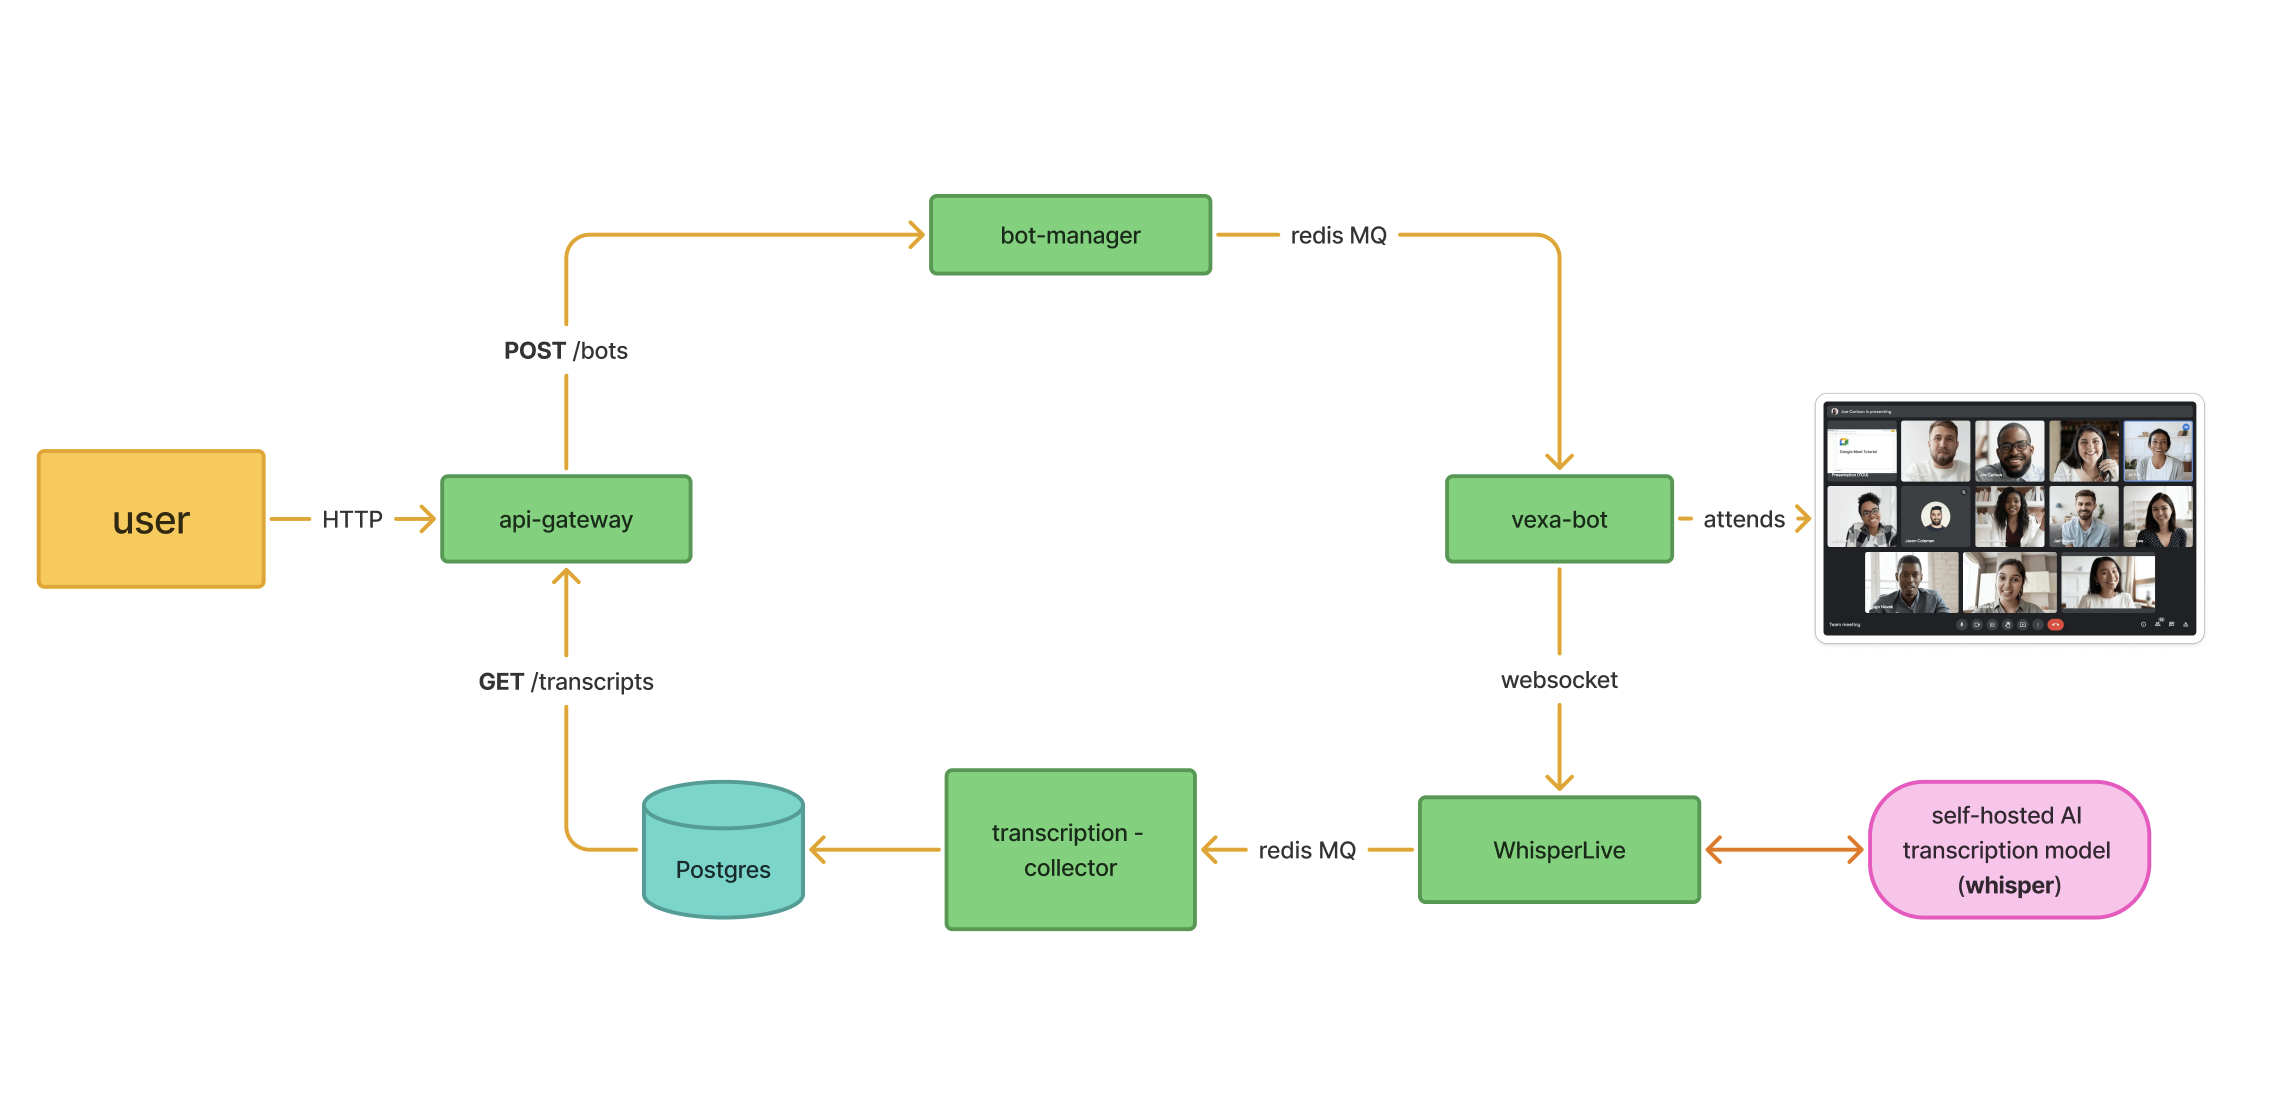
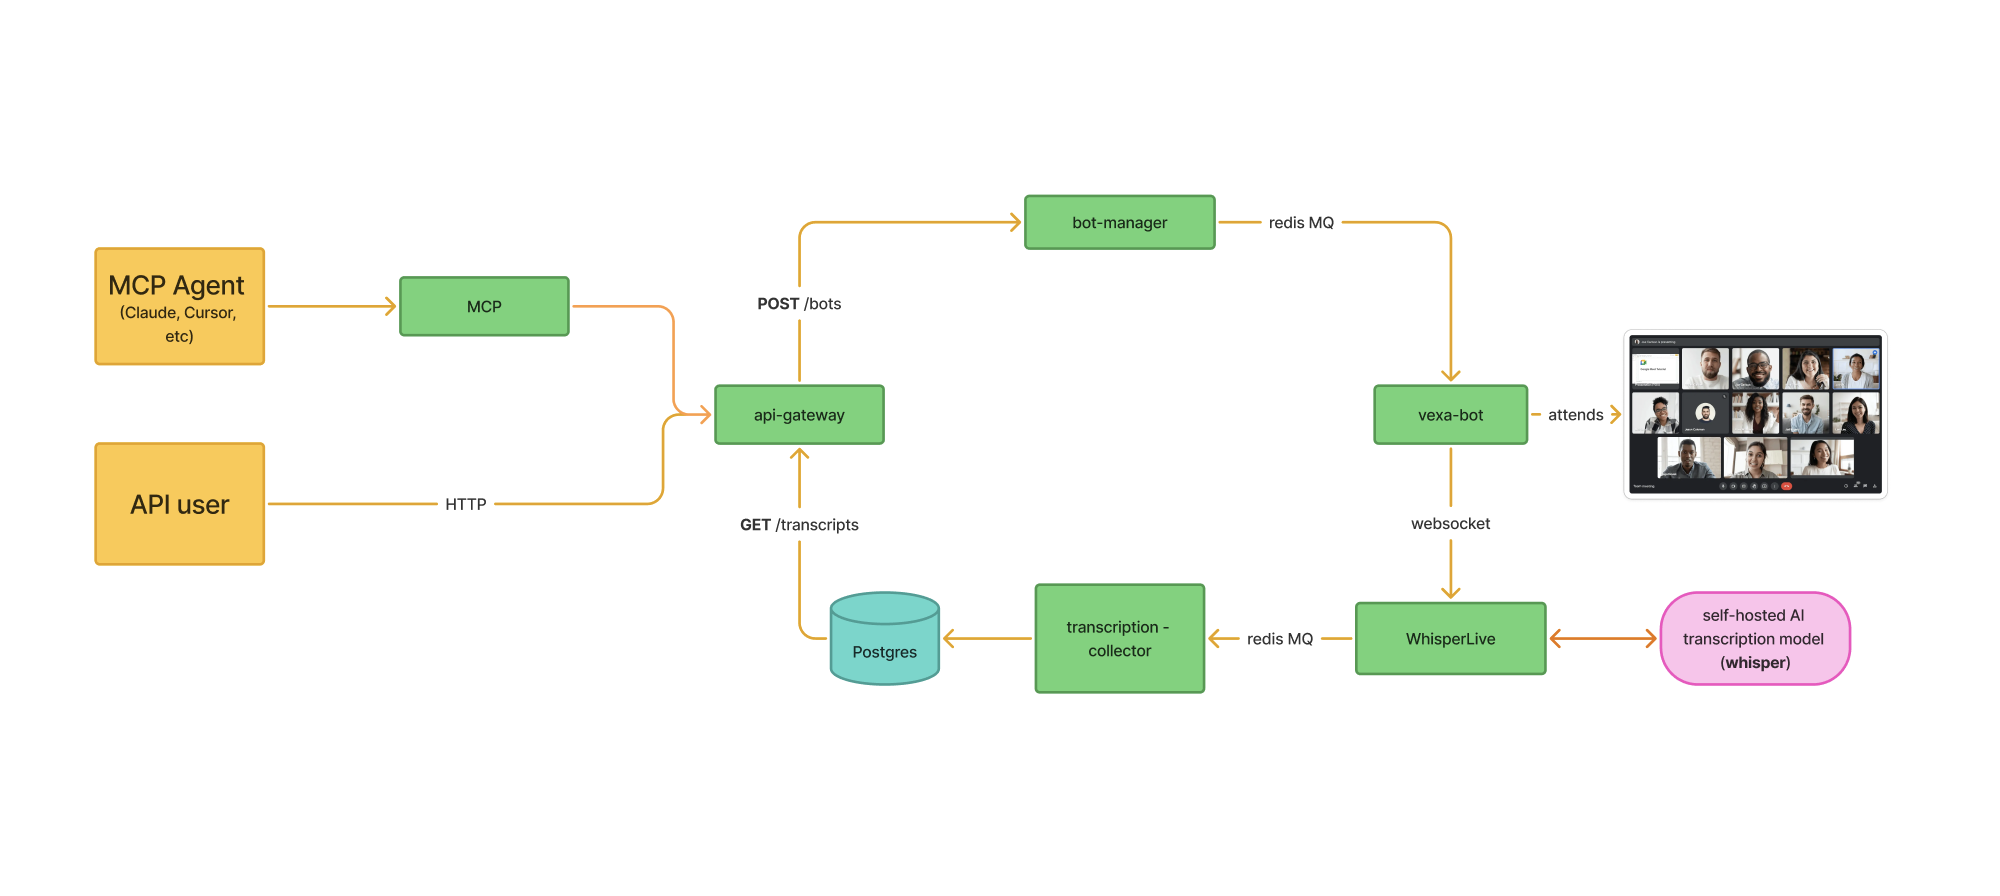
readme update

diff --git a/README.md b/README.md
@@ -6,16 +6,10 @@
 
 # Vexa: API for **Real-Time Meeting Transcription**
 
-
 <p align="center">
   <b>🚀 Help us reach 1500 stars! 🚀</b><br>
   <b>Current: <img src="https://img.shields.io/github/stars/Vexa-ai/vexa?style=social" /> → Goal: 1500 ⭐️</b><br>
   <a href="https://github.com/Vexa-ai/vexa/stargazers">
-
-  </a>
-</p>
-
-
 
 💬 [Join Discord Community!](https://discord.gg/Ga9duGkVz9)
 
@@ -29,23 +23,17 @@ It serves as an **privacy-first**, **open source** alternative to `recall.ai`.
 
 It focuses on doing one job well: **clean, private, real-time transcription under your control so you can safely build on top**.
 
-
-
-
 ## News (31 August 2025)
 
-- **MCP server for agents (new microservice):** Full Vexa API access from any MCP-capable agent (Claude Desktop, Cursor, etc.). See `services/mcp`.
+- **MCP server for agents (new microservice):** Full Vexa API access from any MCP-capable agent (Claude Desktop, Cursor, etc.). See `services/mcp`. Built with https://github.com/tadata-org/fastpi_mcp
 - **Hallucination filtering:** Greatly reduced hallucinations in selected languages. Contributions welcome — add phrases to `services/WhisperLive/hallucinations/` for your language.
 - **Google Meet UI updates:** Bot adjusted to the latest Google Meet UI changes for reliable joining and capture.
 
-
 ## Build on Top. In Hours, Not Months
-
-
 
 **Build powerful meeting assistants (like Otter.ai, Fireflies.ai, Fathom) for your startup, internal use, or custom integrations.**
 
-The Vexa API provides powerful abstractions and a clear separation of concerns, enabling you to build sophisticated applications on top with a safe and enjoyable coding experience. 
+The Vexa API provides powerful abstractions and a clear separation of concerns, enabling you to build sophisticated applications on top with a safe and enjoyable coding experience.
 
 For instance, the **Vexa Example Client** (see [Projects Built with Vexa](BUILT-WITH-VEXA.md)) was built in just 3 hours of live coding with Cursor, showcasing the rapid development possible with Vexa.
 
@@ -55,24 +43,21 @@ Furthermore, with our **n8n integration** (see [Projects Built with Vexa](BUILT-
   <img src="assets/simplified_flow.png" alt="Vexa Architecture Flow" width="100%"/>
 </p>
 
-
 - [api-gateway](./services/api-gateway): Routes API requests to appropriate services
+- [mcp](./services/mcp): Provides MCP-capable agents with Vexa as a toolkit
 - [bot-manager](./services/bot-manager): Handles bot lifecycle management
 - [vexa-bot](./services/vexa-bot): The bot that joins meetings and captures audio
 - [WhisperLive](./services/WhisperLive): Real-time audio transcription service
 - [transcription-collector](./services/transcription-collector): Processes and stores transcription segments
 - [Database models](./libs/shared-models/shared_models/models.py): Data structures for storing meeting information
 
-
-
 ## Public Hosted API
 
-> 🔑 Get your API key at [www.vexa.ai](https://www.vexa.ai/?utm_source=github&utm_medium=readme&utm_campaign=vexa_repo) to try Vexa instantly. 
+> 🔑 Get your API key at [www.vexa.ai](https://www.vexa.ai/?utm_source=github&utm_medium=readme&utm_campaign=vexa_repo) to try Vexa instantly.
 
 > 🚀 Read [DEPLOYMENT.md](DEPLOYMENT.md) for self-hosting and local run with single `make all` on CPU even on laptop or on your GPU server.
 
 The Vexa API is **publicly available** at [www.vexa.ai](https://www.vexa.ai/?utm_source=github&utm_medium=readme&utm_campaign=vexa_repo) with **self-service access** - get your API key in just 3 clicks and have everything running in under 5 minutes.
-
 
 ### Key features in this release:
 
@@ -81,16 +66,16 @@ The Vexa API is **publicly available** at [www.vexa.ai](https://www.vexa.ai/?utm
 - **Real-Time Transcription**: Access meeting transcripts as they happen through the API
 - **Real-Time Translation**: Change the language of transcription to get instant translations across 99 languages
 
-
 ## API Capabilities
 
-
 ## Simple API Integration
+
 **Set up and running in under 5 minutes**
 
 Get your API key in 3 clicks at [www.vexa.ai](https://www.vexa.ai/?utm_source=github&utm_medium=readme&utm_campaign=vexa_repo) and start using the API immediately.
 
 ### Create a meeting bot
+
 ```bash
 # POST /bots
 curl -X POST https://gateway.dev.vexa.ai/bots \
@@ -103,6 +88,7 @@ curl -X POST https://gateway.dev.vexa.ai/bots \
 ```
 
 ### Retrieve meeting transcript
+
 ```bash
 # GET /transcripts/{platform}/{native_meeting_id}
 # Example assumes native_meeting_id is derived from the meeting URL
@@ -142,10 +128,10 @@ To see examples of projects built using the Vexa API, including our example clie
 > 💫 If you're building with Vexa, we'd love your support! [Star our repo](https://github.com/Vexa-ai/vexa/stargazers) to help us reach 1500 stars.
 
 ### Features:
+
 - **Real-time multilingual transcription** supporting **99 languages** with **Whisper**
 - **Real-time translation** across all 99 supported languages
 - (**Note:** Additional features like LLM processing, RAG, and MCP server access are planned - see 'Coming Next')
-
 
 ## Current Status
 
@@ -167,7 +153,7 @@ To see examples of projects built using the Vexa API, including our example clie
 
 For **security-minded companies**, Vexa offers complete **self-deployment** options.
 
-To run Vexa locally on your own infrastructure, the primary command you'll use after cloning the repository is `make all`. This command sets up the environment (CPU by default, or GPU if specified), builds all necessary Docker images, and starts the services. 
+To run Vexa locally on your own infrastructure, the primary command you'll use after cloning the repository is `make all`. This command sets up the environment (CPU by default, or GPU if specified), builds all necessary Docker images, and starts the services.
 
 [3 min video tutorial](https://www.youtube.com/watch?v=bHMIByieVek)
 
@@ -177,19 +163,20 @@ Detailed instructions: [Local Deployment and Testing Guide](DEPLOYMENT.md).
 
 Contributors are welcome! Join our community and help shape Vexa's future. Here's how to get involved:
 
-1.  **Understand Our Direction**:
-    *   Check out the **project roadmap** to see where we're headed: [Vexa Project Roadmap](https://github.com/orgs/Vexa-ai/projects/1)
+1. **Understand Our Direction**:
 
-2.  **Engage on Discord** ([Discord Community](https://discord.gg/Ga9duGkVz9)):
-    *   **Introduce Yourself**: Start by saying hello in the introductions channel.
-    *   **Stay Informed**: Check the Discord channel for known issues, feature requests, and ongoing discussions. Issues actively being discussed often have dedicated channels.
-    *   **Discuss Ideas**: Share your feature requests, report bugs, and participate in conversations about a specific issue you're interested in delivering.
-    *   **Get Assigned**: If you feel ready to contribute, discuss the issue you'd like to work on and ask to get assigned on Discord.
+   * Check out the **project roadmap** to see where we're headed: [Vexa Project Roadmap](https://github.com/orgs/Vexa-ai/projects/1)
+2. **Engage on Discord** ([Discord Community](https://discord.gg/Ga9duGkVz9)):
 
-3.  **Development Process**:
-    *   Browse available **tasks** (often linked from Discord discussions or the roadmap).
-    *   Request task assignment through Discord if not already assigned.
-    *   Submit **pull requests** for review.
+   * **Introduce Yourself**: Start by saying hello in the introductions channel.
+   * **Stay Informed**: Check the Discord channel for known issues, feature requests, and ongoing discussions. Issues actively being discussed often have dedicated channels.
+   * **Discuss Ideas**: Share your feature requests, report bugs, and participate in conversations about a specific issue you're interested in delivering.
+   * **Get Assigned**: If you feel ready to contribute, discuss the issue you'd like to work on and ask to get assigned on Discord.
+3. **Development Process**:
+
+   * Browse available **tasks** (often linked from Discord discussions or the roadmap).
+   * Request task assignment through Discord if not already assigned.
+   * Submit **pull requests** for review.
 
 - **Critical Tasks & Bounties**:
   - Selected **high-priority tasks** may be marked with **bounties**.
@@ -197,7 +184,6 @@ Contributors are welcome! Join our community and help shape Vexa's future. Here'
   - Check task descriptions (often on the roadmap or Discord) for bounty details and requirements.
 
 We look forward to your contributions!
-
 
 ## Project Links
 